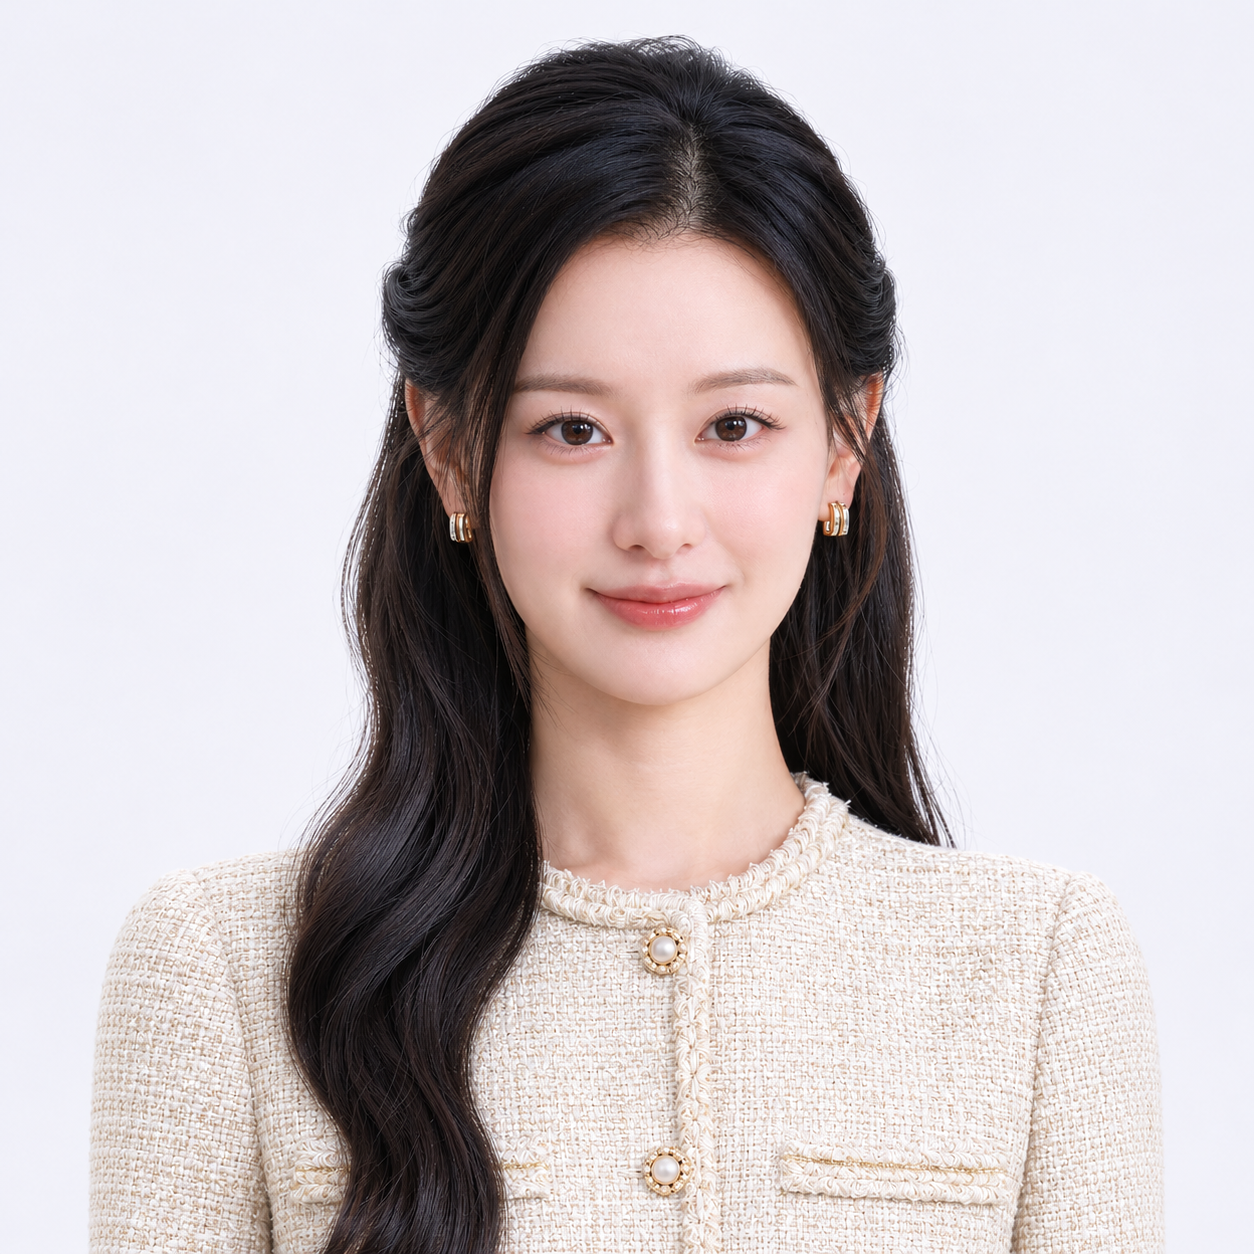
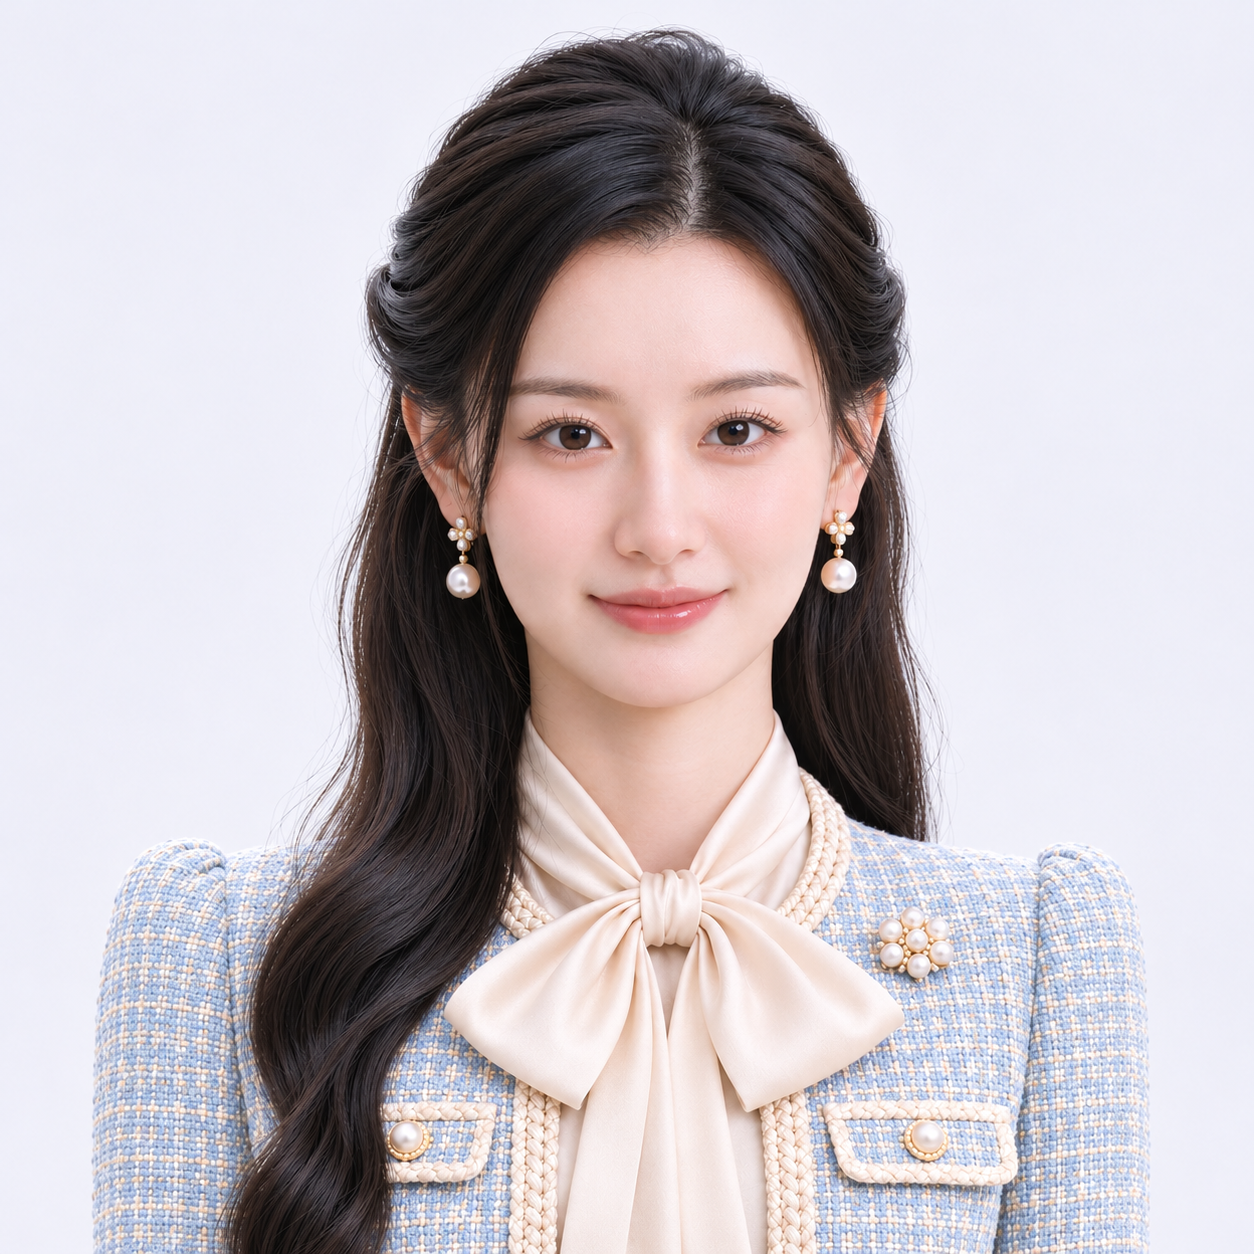
1

Changed region(s): [[0.0622, 0.0, 0.933, 1.0], [0.4665, 0.4043, 0.5909, 0.4976]]

diff --git a/content/zh/authors/douwan/_index.md b/content/zh/authors/douwan/_index.md
@@ -71,8 +71,6 @@ user_groups:
 
 窦婉为天光的学妹，和丈夫定居于南港特区，现为一家庭主妇。窦婉聪明绝顶，有“女中诸葛”之称。同时，她性格怪异，以逗人玩为乐，天光称她为南逗。然而，她的笑容下隐藏着不为人知的过去。
 
-
-
 ###### 出生日期：
 
 光影纪元991年6月26日
@@ -81,3 +79,10 @@ user_groups:
 
 170厘米
 
+###### 身材：
+
+38E
+
+
+
+{{< character_gallery >}}
